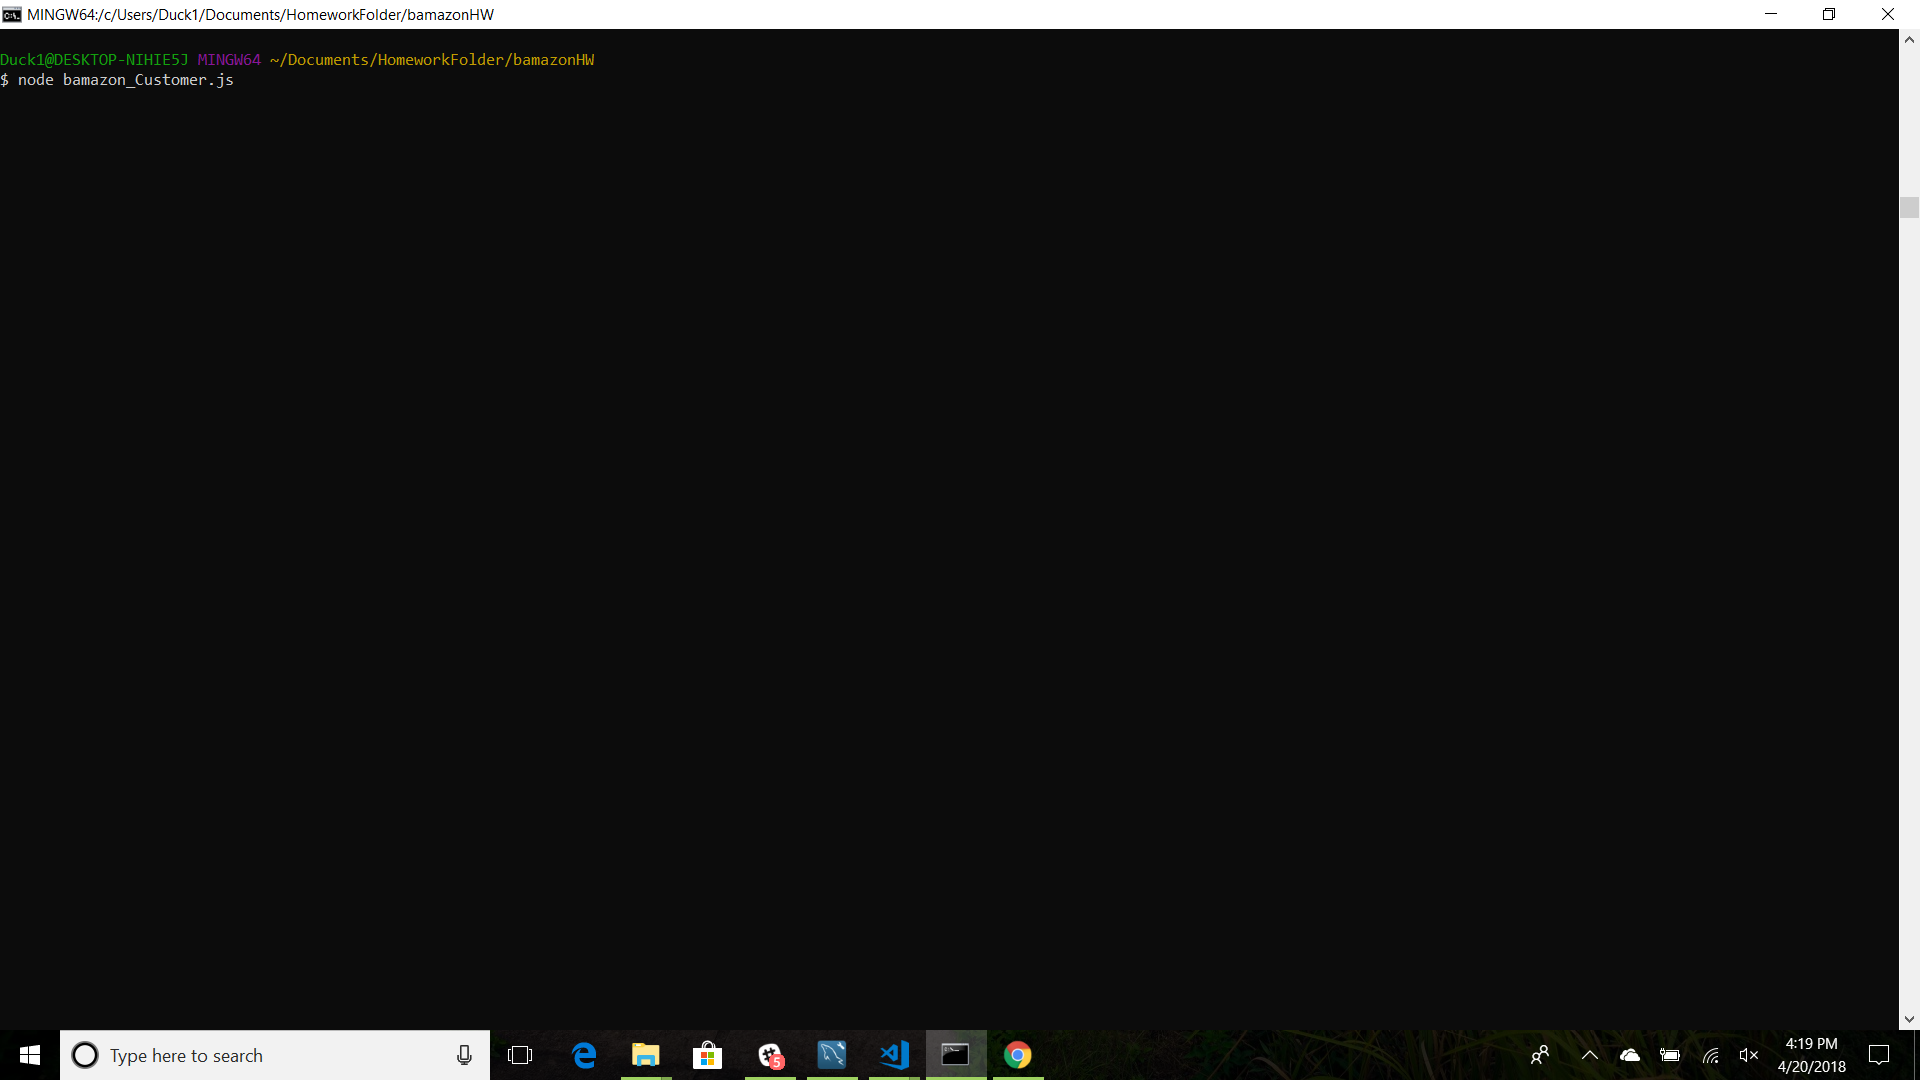
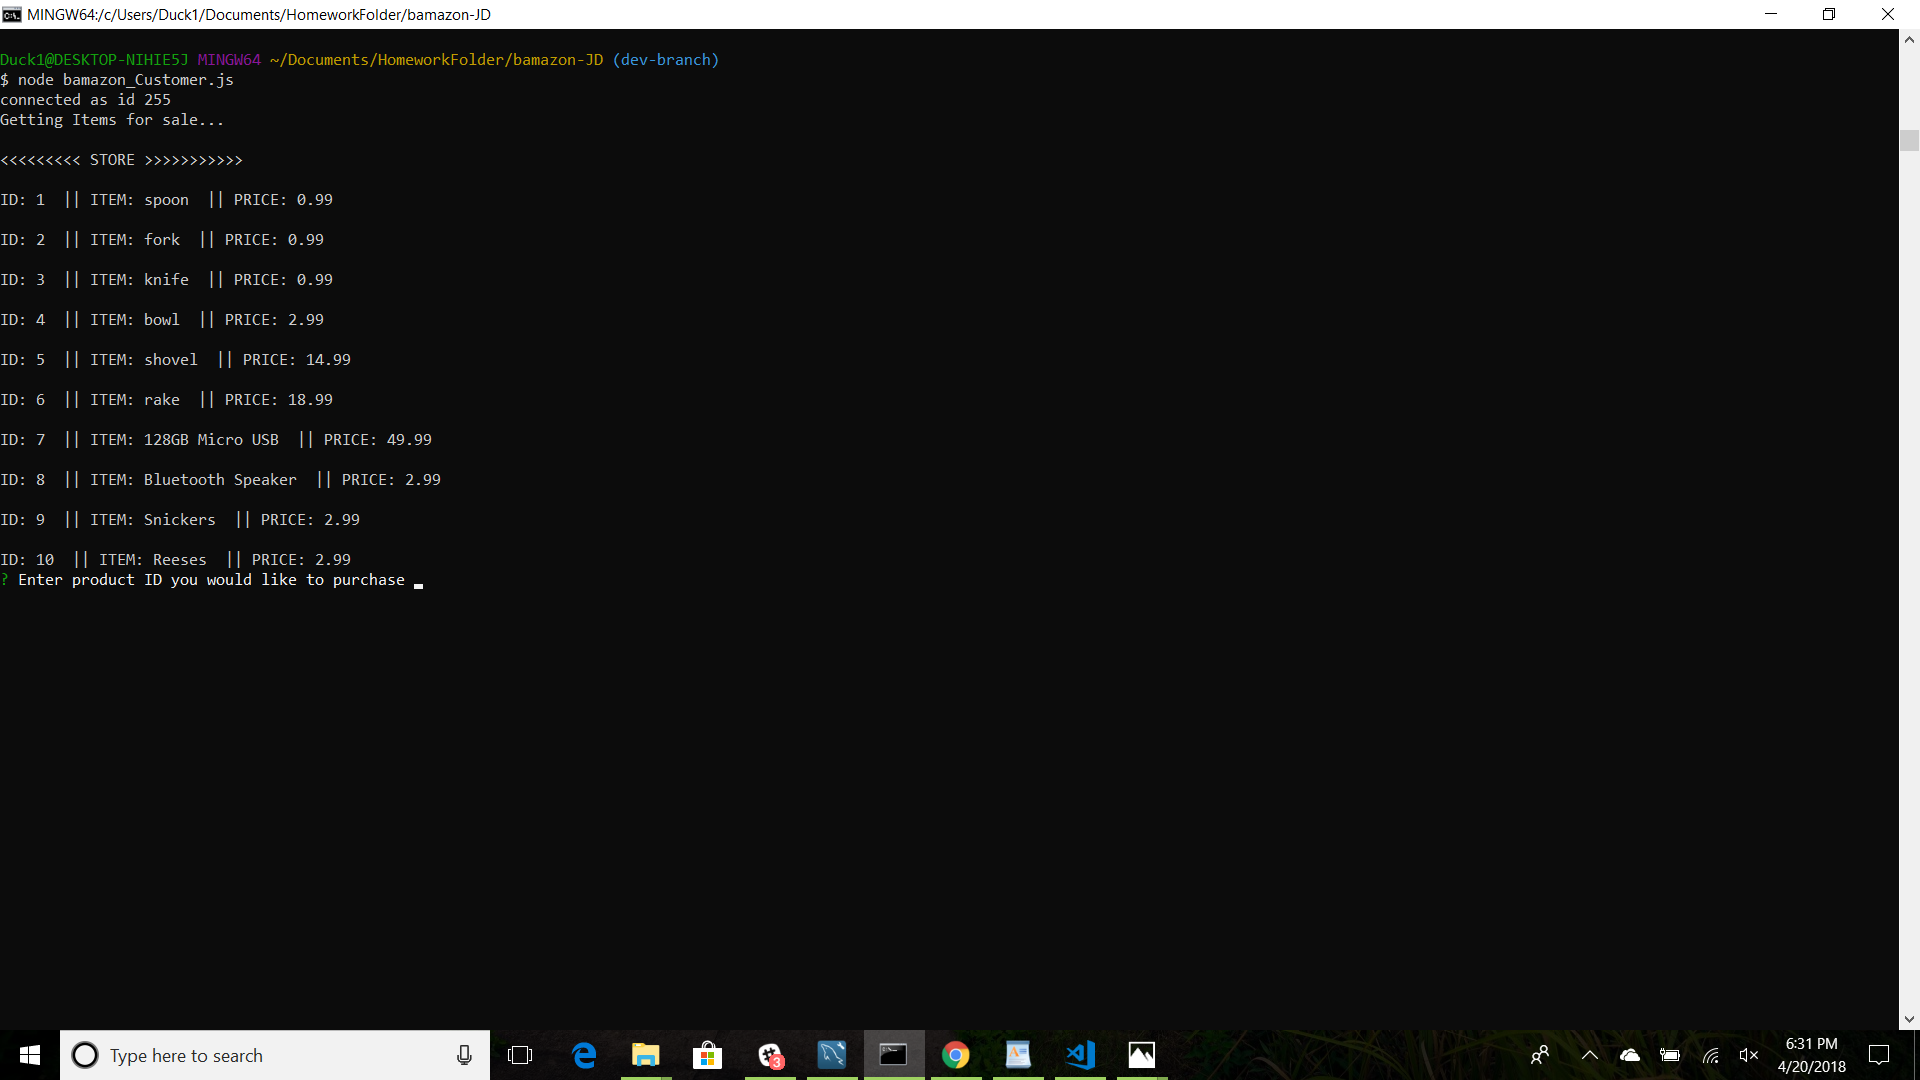
Readme

diff --git a/README.md b/README.md
@@ -9,43 +9,57 @@ added together along with the sales tax for that total. After each checkout the 
 
 These instructions will get you a copy of the project up and running on your local machine for development and testing purposes. See deployment for notes on how to deploy the project on a live system.
 
-### Prerequisites
-
-1. Clone the repository from GitHub ["https://github.com/Duck126/bamazon-JD/tree/dev-branch"].
-
-2. Ensure that package-lock.json was downloaded when you cloned the repository.
-
-3. In gitbash proceed to the cloned repo and type npm install to bring your device up to date with the required dependencies.
-
-```
-
-```
 
 ### User Demo
 
 A step by step series of examples that tell you have to get a development env running
 
-1. Using GitBash while located in the Bamazon folder type "node bamazon_Customer.js" to start the program.
-
+1. Using GitBash while located in the Bamazon folder type "node bamazon_Customer.js" to start the program. The result should look like this ->
 
 ![alt text](https://raw.githubusercontent.com/Duck126/bamazon-JD/dev-branch/images/init.png)
 
+2. Once inside the Store you will be presented with a list of Items for Sale. Each will have an ID and Price listed with it.
+You will be prompted to choose an item you would like to purchase by entering the ID of the product which is listed on the left hand side.
+Enter any 1-10.
 
-And repeat
+![alt text](https://raw.githubusercontent.com/Duck126/bamazon-JD/dev-branch/images/pickItem.png)
 
-```
-until finished
-```
+3. After you select an item you will then be prompted to select how many of that item you would like to purchase. If there isn't enough in stock for your order the message "Sorry we only have [Available Stock] in stock. But check back soon!" will display on the console and you will be returned to Step 2.
 
-End with an example of getting some data out of the system or using it for a little demo
+![alt text](https://raw.githubusercontent.com/Duck126/bamazon-JD/dev-branch/images/tooMany.png)
+
+Else if bamazon is able to complete your order You will move on to Step 4.
 
 
 
-## Built With
+4. After selecting quantity you will be prompted to either continue shopping or proceed to checkout. 
 
-* [Dropwizard](http://www.dropwizard.io/1.0.2/docs/) - The web framework used
-* [Maven](https://maven.apache.org/) - Dependency Management
-* [ROME](https://rometools.github.io/rome/) - Used to generate RSS Feeds
+![alt text](https://raw.githubusercontent.com/Duck126/bamazon-JD/dev-branch/images/choice.png)
+
+4. A: Continue Shopping will set you back to step 2, where you can choose another item to add to your cart.
+
+![alt text](https://raw.githubusercontent.com/Duck126/bamazon-JD/dev-branch/images/continue.png)
+
+5. If you chose to Checkout... the total cost of the items you chose should be logged to the console.
+
+![alt text](https://raw.githubusercontent.com/Duck126/bamazon-JD/dev-branch/images/checkout.png)
+
+6. Thats it! The database should be updated during every checkout.
+
+Before Checkout
+
+![alt text](https://raw.githubusercontent.com/Duck126/bamazon-JD/dev-branch/images/before.png)
+
+After Checkout
+
+![alt text](https://raw.githubusercontent.com/Duck126/bamazon-JD/dev-branch/images/after.png)
+
+
+
+
+
+
+
 
 
 
